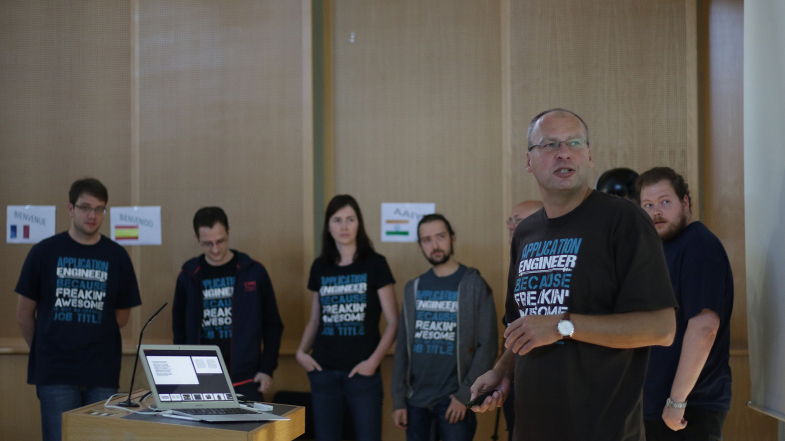
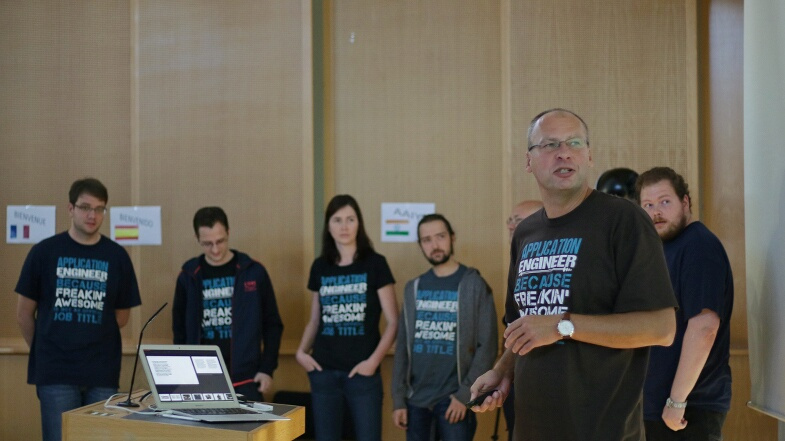
Add proof-read feedback
* TW-78
* Reword some sections
* Add revised photo

diff --git a/_posts/2015-09-21-epages-you-2015.md b/_posts/2015-09-21-epages-you-2015.md
@@ -1,17 +1,17 @@
 ---
 layout: post
 title: "Annual company event: ePagees rock the YOU"
-date: "2015-09-18 07:21:00"
+date: "2015-09-21 13:09:00"
 icon: users
 categories: events
 authors: ["Birgit"]
 ---
 
-Creative team presentations, team building activities, workshops and lot's of fun: last weeks' activities and corridor talks at ePages all revolved around the ePages annual company event: the YOU.
+Creative team presentations, team building activities, workshops and lots of fun: last weeks' activities and corridor talks at ePages all revolved around the ePages annual company event: the YOU.
 The YOU is a formal, annual company event which all ePages employees are required to attend.
 This sounds really tough.
-But it is not.
-It is incredibly fun, although it is hard work, too and involves long hours.
+But it's not.
+Over the two day's the YOU requires hard work and long hours, but is an incredibly fun event.
 
 Main goal of the event:
 
@@ -21,15 +21,15 @@ Main goal of the event:
 
 # Event task force
 
-Already a long time before the actual date of the YOU, an event task force started their activities to prepare the ground for two awesome days.
+Long before the actual date of the YOU, the event task force start preparing activities for the two awesome days.
 To make it a big surprise for everyone, the agenda was kept a secret for a long time.
-But soon the time had come to position some teasers and involve the employees.
+However, leading up to the YOU we were given teasers for the event which kept us all excited.
 
 # Prepare for action
 
-Every team was asked to prepare a 1-minute video, that presents their departments.
+Every team was asked to prepare a 1-minute video that presents their departments.
 To make it short: that was a hell of a lot of fun!
-We also had some restrictions for the team presentations itself: hold a 12-minutes presentation and prepare for a 12-minutes Q&A session.
+To keep it interesting, the team presentations had some restrictions: 12-minutes only for the presentation and then 12-minutes for a Q&A session.
 That was definitely a challenge and required time for a careful preparation.
 
 {% image blog-you-prepare.jpg 100% %}{% endimage %}
@@ -37,7 +37,7 @@ That was definitely a challenge and required time for a careful preparation.
 # Patience required
 
 There were rumors that we would go for an outdoor activity.
-Soon you heard colleagues whisper and chatter on the corridors, what that might be.
+Before long you could hear colleagues whisper and chatter in the corridors about what that might be.
 Climbing? Geocaching? City walk?
 No chance to find that out.
 Staying patient was required.
@@ -48,19 +48,19 @@ Staying patient was required.
 
 Finally the YOU started in a beach club above the city roofs of Hamburg.
 We enjoyed a beautiful view across the city, along with food and drinks, a relaxed atmosphere and lots of fun.
-Incidentally, we also had the chance to observe a beautiful sundown!
+Incidentally, we also had the chance to observe a beautiful sunset!
 
-# Opening YO(U)
+# Opening YOU
 
 The next day we all convened at the Hamburg University to spend the first day watching funny and awesome team videos and listening to well-prepared team presentations.
 
 {% image blog-you-presentation.jpg 100% %}{% endimage %}
 
-Exciting: which team was going to present was drawn right before the presentation, so every team had to be prepared at all times!
+Exciting: the team that was going to present was drawn right before the presentation, so every team had to be prepared at all times!
 
 # Dragon boat race
 
-In the afternoon the secret was finally lifted what would be our outdoor activity: we went to a small dock at a branch of the Alster to spend the afternoon with dragon boat races.
+In the afternoon, the secret was finally revealed as to what our outdoor activity would be. We were taken to a small dock at a branch of the Alster to spend the afternoon competing in dragon boat races.
 
 {% image blog-you-dragonboat.jpg 100% %}{% endimage %}
 
@@ -73,11 +73,11 @@ There was so much enthusiasm and ambition amongst the colleagues learning the sk
 
 We finished the day chilling out at a restaurant with cocktails and burgers.
 The composition of the tables was chosen at random.
-Everyone again had to be out of their comfort zones to get to know new colleagues from other locations.
+Again, helping everyone get pushed out of their comfort zones to get to know new colleagues from other locations.
 
 # Prepare for the coming day
 
-Just one (short) night to recover from the current events and jump right into the next.
+Just one (short) night to recover from the current events and then it was time to jump right into the next.
 We briefly wrapped up the first day and continued with creative team videos and presentations.
 Next to this, we had a speaker presenting future company events as well as a lecture sharing knowledge on our merchants.
 
